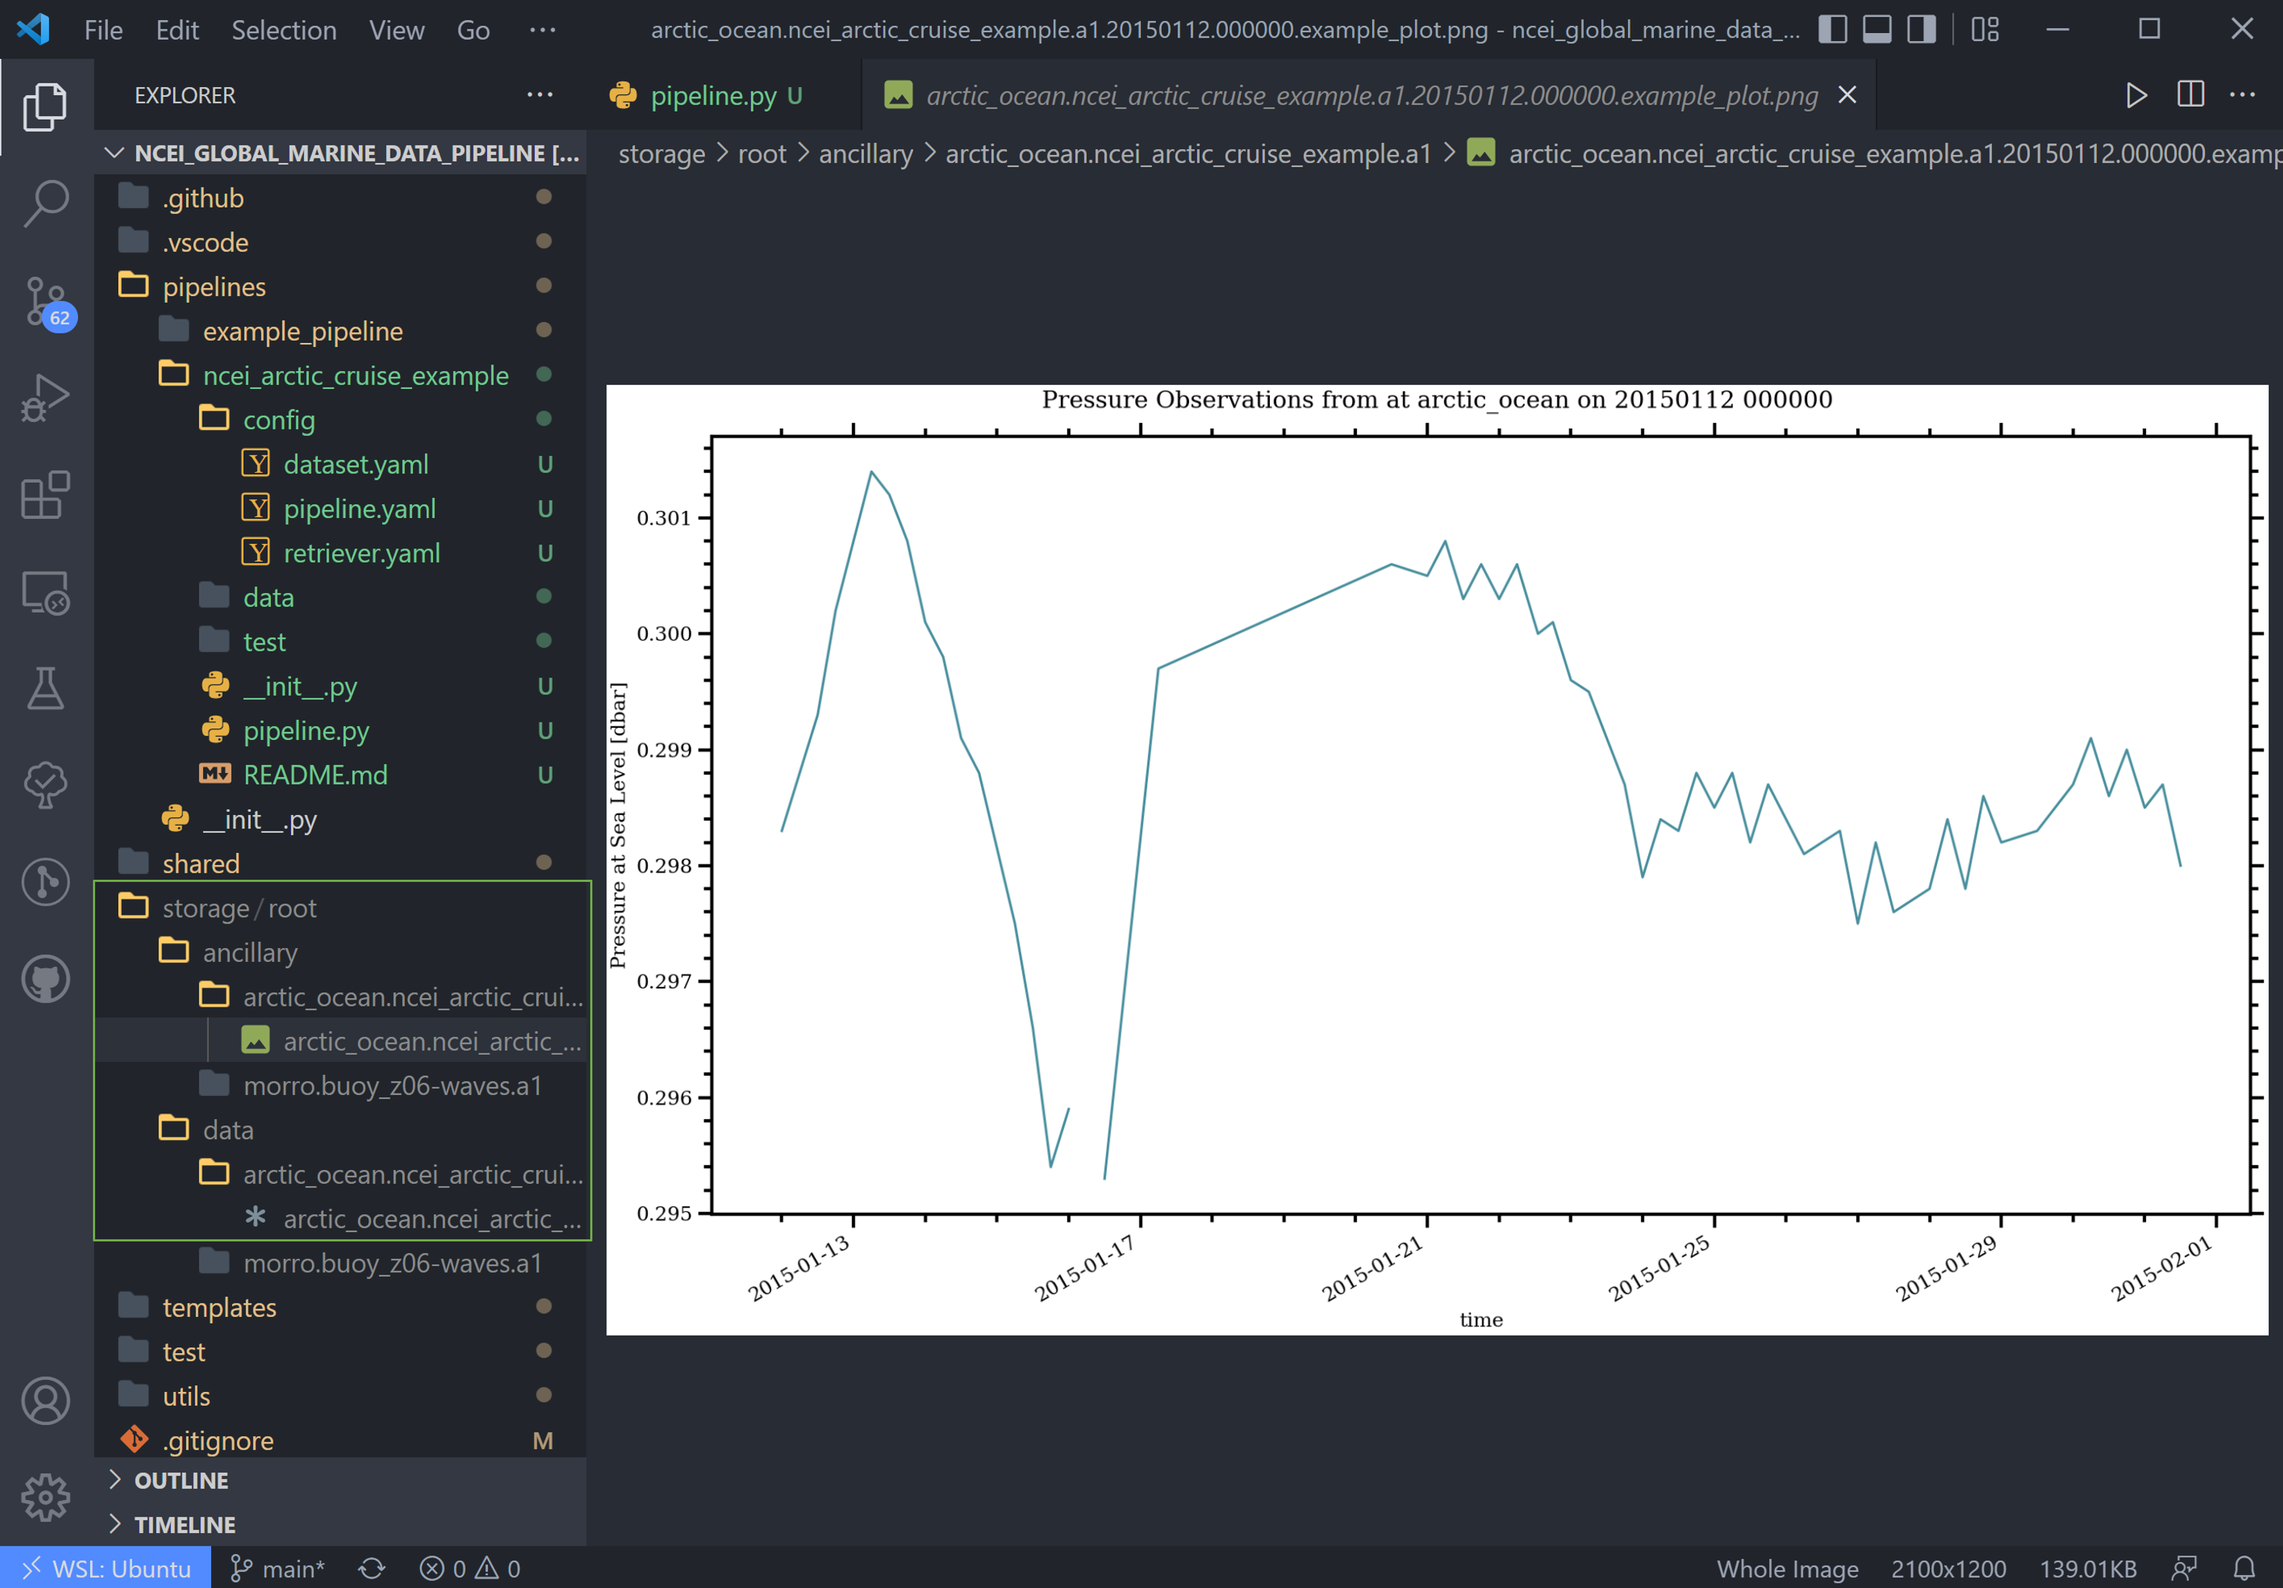
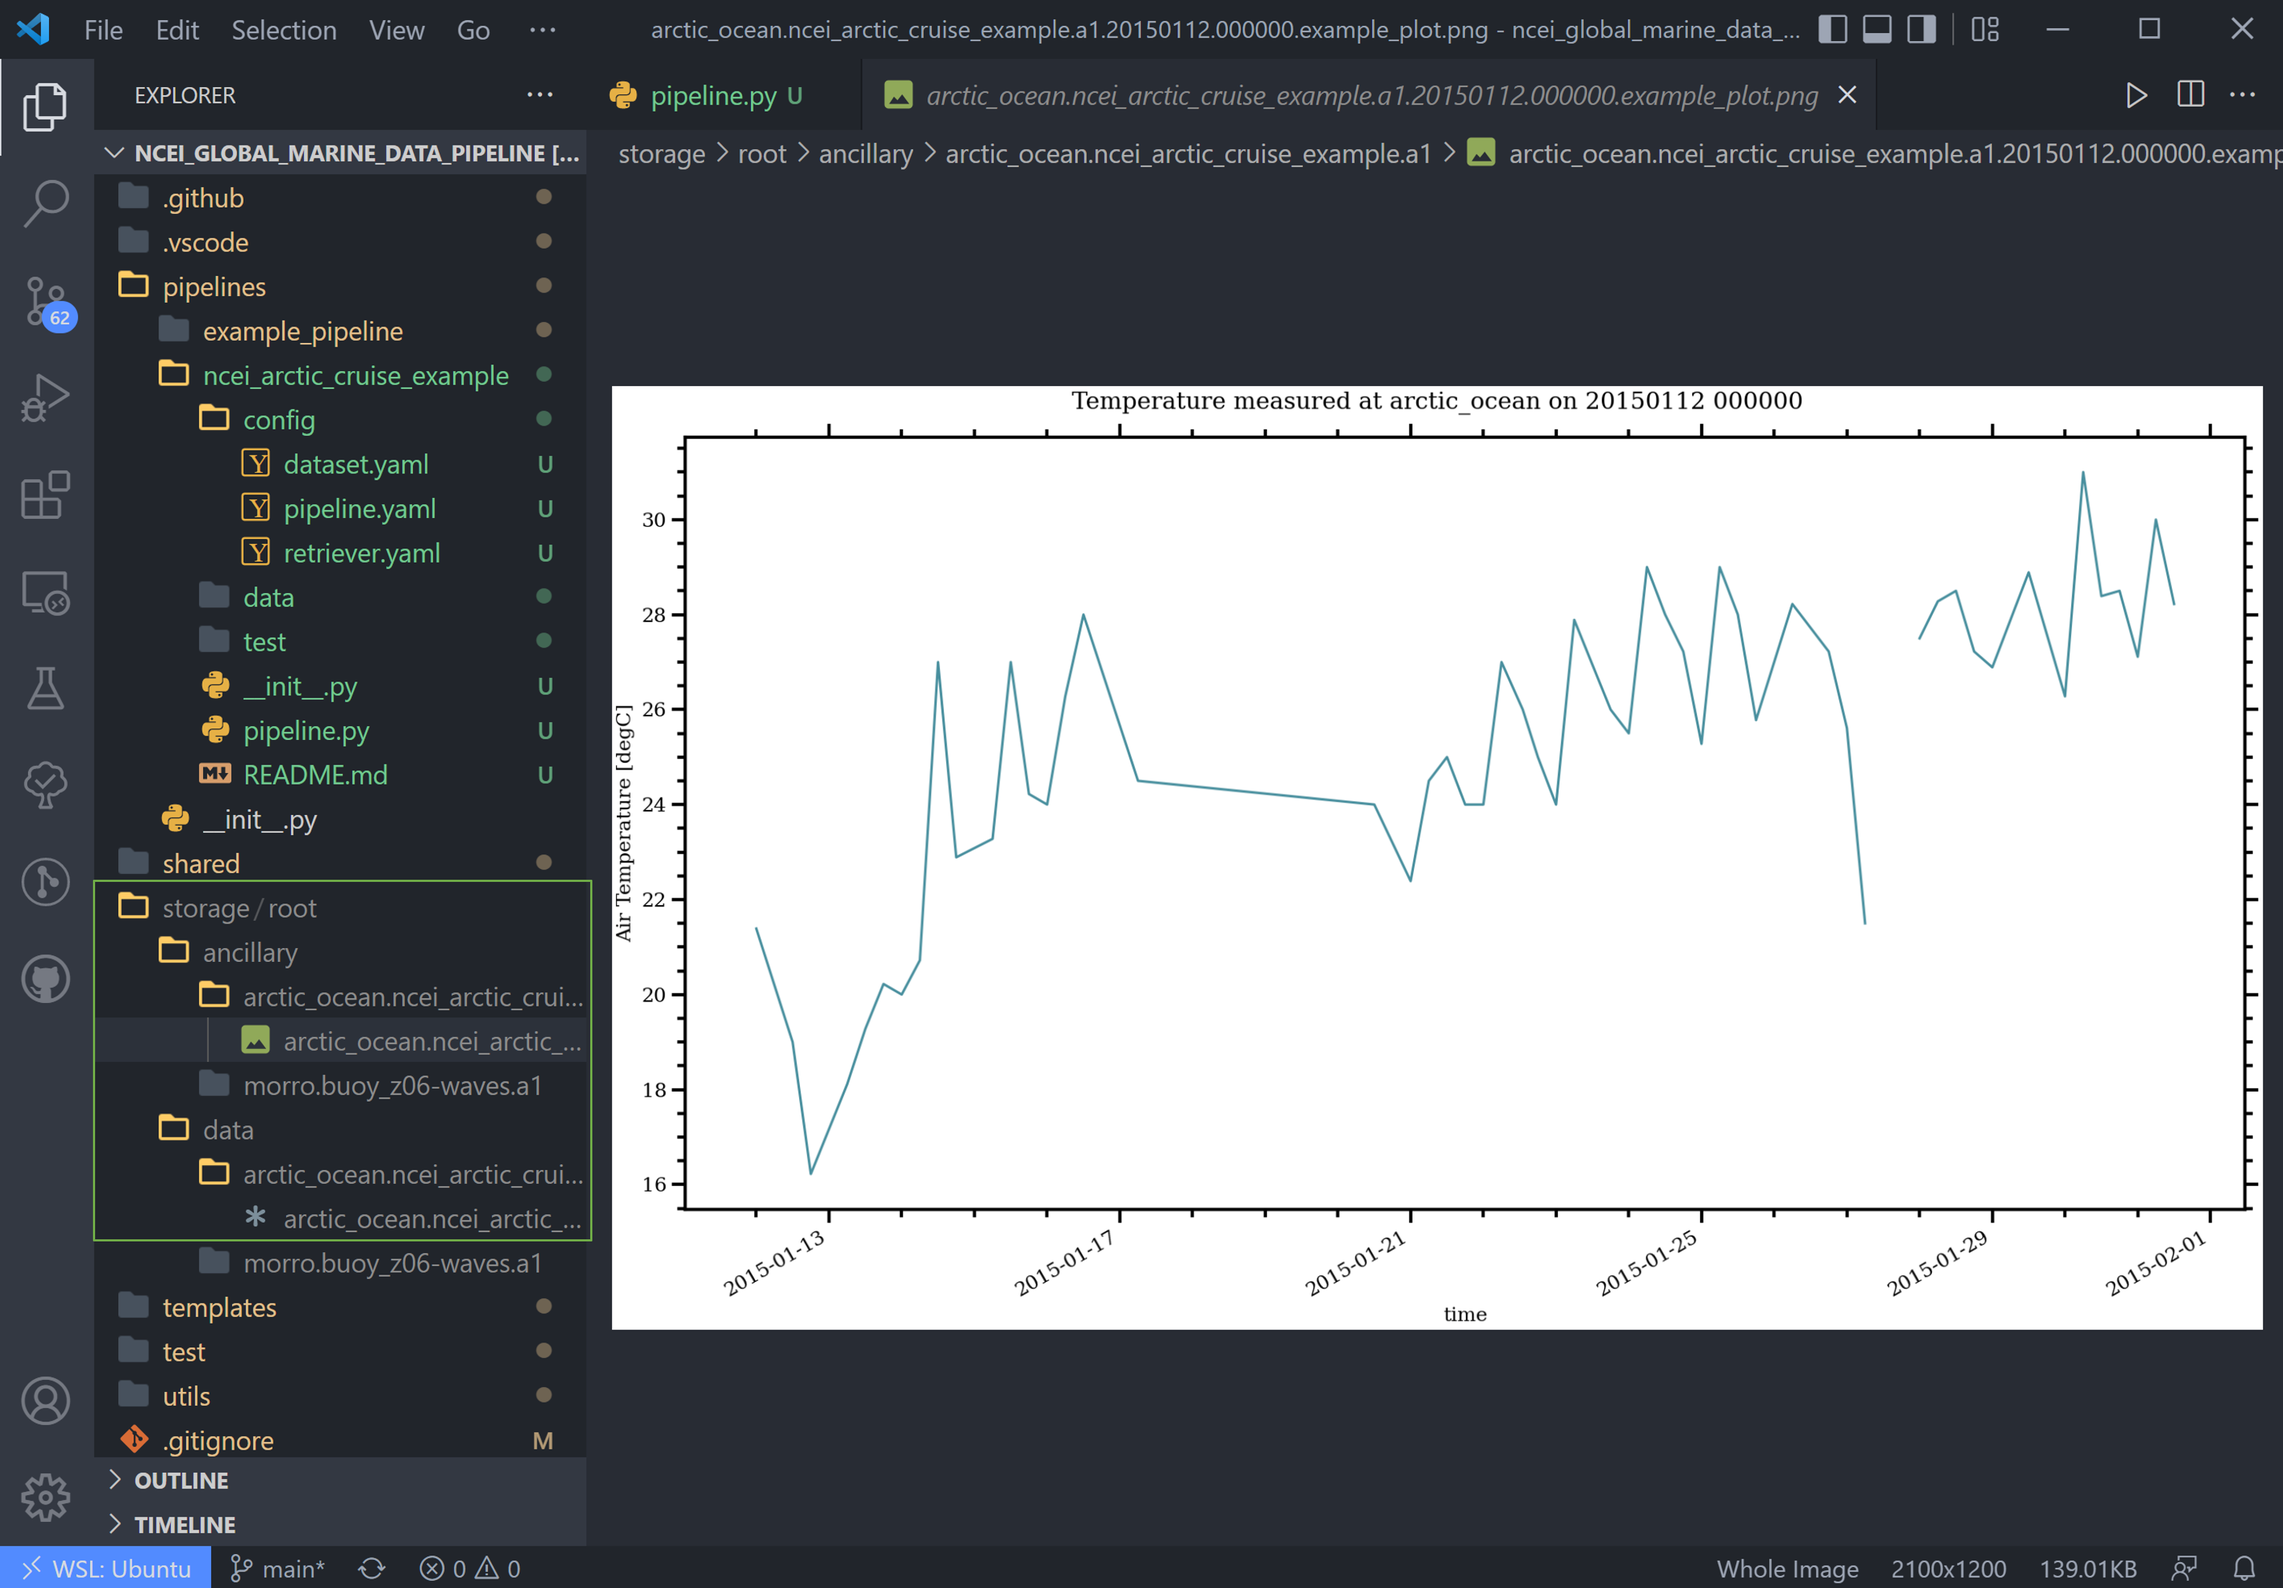
Update intro tutorial

diff --git a/docs/source/tutorials/data_ingest.rst b/docs/source/tutorials/data_ingest.rst
@@ -568,9 +568,10 @@ Replace the text in the "dataset.yaml" file with the following code-block.
         long_name: Latitude   # Name used in plotting
         units: degN           # Units, necessary for unit conversion
         comment: ""           # Add a comment or description if necessary
-        _FillValue: 99        # Bad data marker in raw dataset, otherwise -9999
-        fail_range: [-90, 90] # Expected failure range for "CheckFailMax"/Min" QC tests
-        
+        _FillValue: -999      # Bad data marker in raw dataset, otherwise -9999
+        valid_max: 90         # Expected failure range for "CheckValidMax" QC test
+        valid_min: -90        # Expected failure range for "CheckValidMin" QC test
+
     longitude:
       dims: [time]
       dtype: float
@@ -578,6 +579,8 @@ Replace the text in the "dataset.yaml" file with the following code-block.
         long_name: Longitude
         units: degE
         comment: ""
+        valid_max: 180
+        valid_min: -180
         
     pressure:
       dims: [time]
@@ -610,8 +613,7 @@ Replace the text in the "dataset.yaml" file with the following code-block.
         long_name: Wave Period
         units: s
         comment: Assumed to refer to average wave period
-        _FillValue: 99
-        warn_range: [0, 22] # Expected range for "CheckWarnMax"/Min" QC tests
+        valid_max: 30 # Expected max for "CheckValidMax"/Min" QC tests
         
     wave_height:
       dims: [time]
@@ -628,7 +630,7 @@ Replace the text in the "dataset.yaml" file with the following code-block.
         long_name: Swell Direction
         units: deg from N
         comment: Assumed to refer to peak wave direction
-        fail_range: [0, 360]
+        valid_max: 360
         
     swell_period:
       dims: [time]
@@ -637,7 +639,7 @@ Replace the text in the "dataset.yaml" file with the following code-block.
         long_name: Swell Period
         units: s
         comment: Assumed to refer to peak wave period
-        warn_range: [0, 22]
+        valid_max: 30
         
     swell_height:
       dims: [time]
@@ -654,7 +656,7 @@ Replace the text in the "dataset.yaml" file with the following code-block.
         long_name: Wind Direction
         units: deg from N
         comment: ""
-        fail_range: [0, 360]
+        valid_max: 360
         
     wind_speed:
       dims: [time]
@@ -752,15 +754,31 @@ desired:
           plt.style.use("default")  # clear any styles that were set before
           plt.style.use("shared/styling.mplstyle")
 
-          with self.storage.uploadable_dir(datastream) as tmp_dir:
+        with self.storage.uploadable_dir(datastream) as tmp_dir:
 
-              fig, ax = plt.subplots()
-              dataset["pressure"].plot(ax=ax, x="time", c=cmocean.cm.deep_r(0.5))
-              fig.suptitle(f"Pressure Observations from at {location} on {date} {time}")
+            fig, ax = plt.subplots()
+            dataset["temperature"].plot(ax=ax, x="time", c=cmocean.cm.deep_r(0.5))
+            fig.suptitle(f"Temperature measured at {location} on {date} {time}")
 
-              plot_file = get_filename(dataset, title="example_plot", extension="png")
-              fig.savefig(tmp_dir / plot_file)
-              plt.close(fig)
+            plot_file = get_filename(dataset, title="temperature", extension="png")
+            fig.savefig(tmp_dir / plot_file)
+            plt.close(fig)
+
+            # Creat Plot Display
+            obj = dataset
+            variable = "wave_height"
+            display = act.plotting.TimeSeriesDisplay(
+                obj, figsize=(15, 10), subplot_shape=(2,)
+            )
+            # Plot data in top plot
+            display.plot(variable, subplot_index=(0,), label="Wave Height")
+            # Plot QC data
+            display.qc_flag_block_plot(variable, subplot_index=(1,))
+            fig = display.fig
+
+            plot_file = get_filename(dataset, title="wave_height", extension="png")
+            fig.savefig(tmp_dir / plot_file)
+            plt.close(fig)
 
 
 
@@ -788,54 +806,84 @@ the plot as well as the netCDF file output (or csv if you changed the output wri
       :alt:
 
 
-Data can be viewed by opening the terminal (``ctrl ```) and running a quick python shell:
+Viewing the Data
+================
+NetCDF files can be opened using the provided `file_viewer.ipynb` jupyter notebook.
+This file can be opened in VSCode or through `Jupyter's website <https://jupyter.org/try>`_.
 
-.. code-block:: bash
+.. figure:: global_marine_data/intro24.png
+    :align: center
+    :width: 100%
+    :alt:
 
-  $ cd storage/root/data/arctic_ocean.ncei_arctic_cruise_example.a1
-  $ python
+Change the first code block to point to our netcdf data:
+
+.. code-block:: python
+
+  import xarray as xr
+
+  ds = xr.open_dataset(
+      "../../storage/root/data/arctic_ocean.ncei_arctic_cruise_example.a1/arctic_ocean.ncei_arctic_cruise_example.a1.20150112.000000.nc"
+  )
   
-In the python shell that opens, we can view the dataset for a quick overview:
+And hit `shift enter` to run this code block. Run the next code block to see an interactive
+data block.
 
-.. code-block::
+.. code-block:: python
 
-  >>> import xarray as xr
-  >>> ds = xr.open_dataset('arctic_ocean.ncei_arctic_cruise_example.a1.20150112.000000.nc')
-  >>> ds
-  <xarray.Dataset>
-  Dimensions:             (time: 55)
-  Coordinates:
-    * time                (time) datetime64[ns] 2015-01-12 ... 2015-01-31T12:00:00
-  Data variables: (12/24)
-      latitude            (time) float64 ...
-      longitude           (time) float64 ...
-      pressure            (time) float64 ...
-      temperature         (time) float64 ...
-      dew_point           (time) float64 ...
-      wave_period         (time) float64 ...
-      ...                  ...
-      qc_wave_height      (time) int32 ...
-      qc_swell_direction  (time) int32 ...
-      qc_swell_period     (time) int32 ...
-      qc_swell_height     (time) int32 ...
-      qc_wind_direction   (time) int32 ...
-      qc_wind_speed       (time) int32 ...
-  Attributes:
-      title:         NCEI Arctic Cruise Example
-      description:   Historical marine data that are comprised of ship, buoy and...
-      location_id:   arctic_ocean
-      dataset_name:  ncei_arctic_cruise_example
-      data_level:    a1
-      datastream:    arctic_ocean.ncei_arctic_cruise_example.a1
-      history:       Ran by jmcvey3 at 2022-04-29T15:31:32.055678
+  ds
 
+Use the drop-down arrows on the left and the text file and database icons on the right
+to explore the data.
+
+.. figure:: global_marine_data/intro25.png
+    :align: center
+    :width: 100%
+    :alt:
+
+There are two sets of variables here. The first are the original variables saved with
+their data (adjusted by data converters and/or QC function if applicable) 
+and associated metadata.
+
+The second set are the QC variables. Tsdat adds these variables if the
+``RecordQualityResults`` handler is called in the quality configuration file.
+A few attributes, specified for this handler in the quality config file, are shared 
+across all QC variables: `flag_masks`, `flag_meanings`, and `flag_assessments`. 
+In this case, there are three `flag masks`: 1, 2, and 4. We can see in the data, flags 
+1 and 4 were tripped on this variable. Every point listed as 1 corresponds to the 
+first entry in `flag_meanings`: "Value is equal to _FillValue or NaN", a.k.a. it is 
+a missing datapoint. Likewise for flag 4: a few datapoints are above the valid maximum
+specified.
+
+Note: if multiple QC flags are tripped, these flags will be added together. For instance,
+if a QC variable has a value of 5, this means that the QC tests corresponding to flag 1 
+and flag 4 were both tripped.
+
+.. figure:: global_marine_data/intro26.png
+    :align: center
+    :width: 100%
+    :alt:
+
+The final two code blocks are shorthand for plotting variables in the dataset.
+
+.. code-block:: python
+
+    ds.temperature.plot()
+    ds.qc_temperature.plot()
+
+.. figure:: global_marine_data/intro27.png
+    :align: center
+    :width: 100%
+    :alt:
 
 
 Pipeline Tests
 ==============
 
-Testing is best completed as a last step, after everything is set up and the pipeline outputs
-as expected. If running a large number of data files, a good idea is to input one of those data files here, along with its expected output, and have a separate data folder to collect input files.
+Testing is best completed as a last step, after everything is set up and the pipeline 
+outputs as expected. If running a large number of data files, a good idea is to input 
+one of those data files here, along with its expected output, and have a separate data 
+folder to collect input files.
 
 Move the input and output files to the ``test/data/input/`` and ``test/data/expected/`` folders,
 respectively, and update the file paths.

diff --git a/docs/source/tutorials/pipeline_customization.rst b/docs/source/tutorials/pipeline_customization.rst
@@ -295,7 +295,7 @@ the required "valid_range" and "_FillValue" attributes like the following:
     attrs:
       units: "m"
       valid_range: [-3, 3] # attribute for the "CheckValidMin" and "CheckValidMax" functions
-      _FillValue: 999      # the "bad data" value
+      _FillValue: -999      # the "bad data" value
 
 
 Now back to the tutorial steps:
